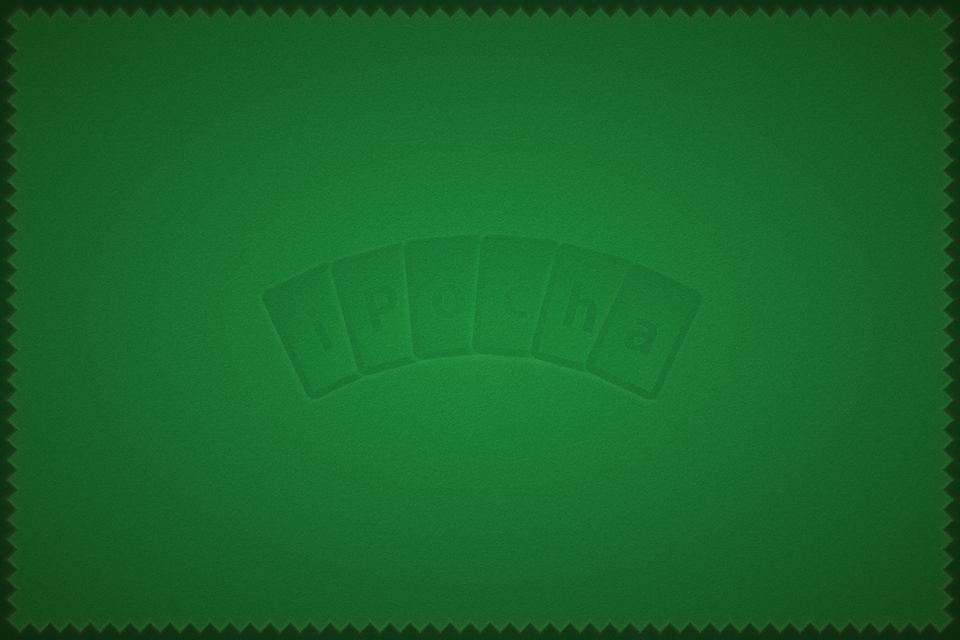
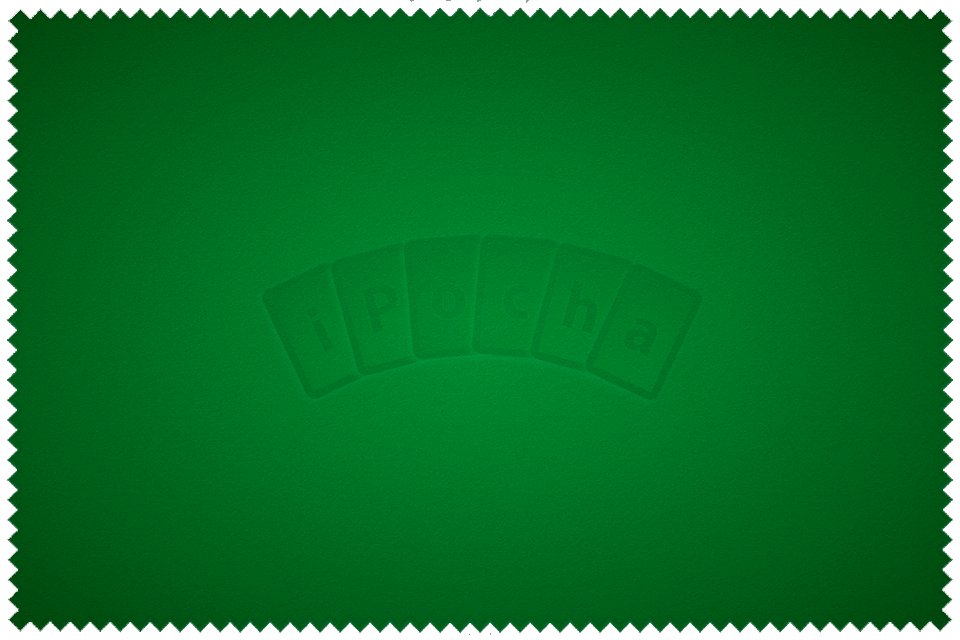
Use local image assets and strengthen hard-mode AI
- Point card and table background images to local img/ folder instead of
  remote javigarcia.com URLs, so the game works offline and picks up the
  updated table background.
- Prevent double-play when the human clicks two cards rapidly by locking
  pointer events on the hand until the next human turn.
- AI fixes for more coherent play in hard mode:
  * Exclude cards played in previous tricks from the simulation pool.
  * Make simulation heuristics trump-aware when leading and following.
  * Deterministic lead shortcut: need-all-remaining → strongest card,
    already-at-target → weakest card.
  * Strength-based tiebreaker in simulation scoring, removing bias from
    the AI hand's random order.
  * AI simulates its own future turns with a bid-aware policy instead of
    playing like a noisy opponent.

diff --git a/script.js b/script.js
@@ -2,7 +2,7 @@
  * LA PODRIDA — JUEGO DE CARTAS (RESPONSIVE + DIFICULTAD)
  ***********************/
 
-const IMG_BASE = 'https://javigarcia.com/lapodrida/img/';
+const IMG_BASE = 'img/';
 
 /***********************
  * CONFIGURACION DE DIFICULTAD
@@ -44,6 +44,7 @@ let currentPhase = "bidding";
 let currentTrick = [];
 let currentPlayer = null;
 let scoreData = [];
+let playedCardsThisRound = [];
 
 /***********************
  * FUNCIONES UTILITARIAS
@@ -117,15 +118,20 @@ function getLegalCardsForSimulation(hand, trick, ts) {
   return hand.slice();
 }
 
+// Trump-aware strength: trumps dominate any non-trump card
+function cardStrength(card, ts) {
+  return (card.suit === ts ? 100 : 0) + getRankValue(card.rank);
+}
+
 // Heuristic card selection for smarter simulation opponents (hard mode)
 function heuristicSimSelect(hand, trick, ts) {
   const legal = getLegalCardsForSimulation(hand, trick, ts);
   if (legal.length <= 1) return legal[0];
 
   if (trick.length === 0) {
-    // Leading: 60% play highest, 40% random
-    if (Math.random() < 0.6) {
-      return legal.reduce((a, b) => getRankValue(a.rank) >= getRankValue(b.rank) ? a : b);
+    // Leading: prefer strongest card (trump-aware). Small noise to avoid determinism.
+    if (Math.random() < 0.85) {
+      return legal.reduce((a, b) => cardStrength(a, ts) >= cardStrength(b, ts) ? a : b);
     }
     return legal[Math.floor(Math.random() * legal.length)];
   }
@@ -151,14 +157,14 @@ function heuristicSimSelect(hand, trick, ts) {
     return false;
   });
 
-  if (winners.length > 0 && Math.random() < 0.7) {
+  if (winners.length > 0 && Math.random() < 0.85) {
     // Play cheapest winner (economize strong cards)
-    return winners.reduce((a, b) => getRankValue(a.rank) <= getRankValue(b.rank) ? a : b);
+    return winners.reduce((a, b) => cardStrength(a, ts) <= cardStrength(b, ts) ? a : b);
   }
 
-  // Can't win or choosing not to: dump lowest card (70%) or random
-  if (Math.random() < 0.7) {
-    return legal.reduce((a, b) => getRankValue(a.rank) <= getRankValue(b.rank) ? a : b);
+  // Can't win or choosing not to: dump weakest card
+  if (Math.random() < 0.85) {
+    return legal.reduce((a, b) => cardStrength(a, ts) <= cardStrength(b, ts) ? a : b);
   }
   return legal[Math.floor(Math.random() * legal.length)];
 }
@@ -244,6 +250,56 @@ function aiComputeBid(pid) {
   return simulateBid(players.find(p => p.id === pid));
 }
 
+// Bid-aware deterministic play for the AI's own future turns inside a simulation.
+// tricksNeeded = aiPlayer.bid - (tricks already won in real game + tricks won in this simulation)
+function aiOwnSimSelect(hand, trick, ts, tricksNeeded, tricksRemaining) {
+  const legal = getLegalCardsForSimulation(hand, trick, ts);
+  if (legal.length <= 1) return legal[0];
+
+  if (trick.length === 0) {
+    // Leading: need all remaining -> strongest; don't want more -> weakest; mid -> mid (cheap winner)
+    if (tricksNeeded >= tricksRemaining) {
+      return legal.reduce((a, b) => cardStrength(a, ts) >= cardStrength(b, ts) ? a : b);
+    }
+    if (tricksNeeded <= 0) {
+      return legal.reduce((a, b) => cardStrength(a, ts) <= cardStrength(b, ts) ? a : b);
+    }
+    // Neutral lead: strong card to try to take a trick
+    return legal.reduce((a, b) => cardStrength(a, ts) >= cardStrength(b, ts) ? a : b);
+  }
+
+  // Following: compute current winner and partition legal cards
+  const ledSuit = trick[0].card.suit;
+  let bestCard = trick[0].card;
+  trick.forEach(play => {
+    if (play.card.suit === ts) {
+      if (bestCard.suit !== ts || getRankValue(play.card.rank) > getRankValue(bestCard.rank))
+        bestCard = play.card;
+    } else if (bestCard.suit !== ts && play.card.suit === ledSuit) {
+      if (getRankValue(play.card.rank) > getRankValue(bestCard.rank))
+        bestCard = play.card;
+    }
+  });
+  const winners = legal.filter(c => {
+    if (c.suit === ts && bestCard.suit !== ts) return true;
+    if (c.suit === ts && bestCard.suit === ts) return getRankValue(c.rank) > getRankValue(bestCard.rank);
+    if (c.suit === ledSuit && bestCard.suit !== ts) return getRankValue(c.rank) > getRankValue(bestCard.rank);
+    return false;
+  });
+  const losers = legal.filter(c => !winners.includes(c));
+
+  if (tricksNeeded > 0 && winners.length > 0) {
+    // Want this trick: use cheapest winner
+    return winners.reduce((a, b) => cardStrength(a, ts) <= cardStrength(b, ts) ? a : b);
+  }
+  if (tricksNeeded <= 0 && losers.length > 0) {
+    // Don't want this trick: dump highest loser (preserve small cards for later loses)
+    return losers.reduce((a, b) => cardStrength(a, ts) >= cardStrength(b, ts) ? a : b);
+  }
+  // Forced: either can't avoid winning or can't win; play weakest legal card
+  return legal.reduce((a, b) => cardStrength(a, ts) <= cardStrength(b, ts) ? a : b);
+}
+
 function simulateRemainingRoundForCard(aiPlayer, candidateIndex) {
   let simTrick = currentTrick.slice();
   const aiHandSim = aiPlayer.hand.slice();
@@ -261,6 +317,9 @@ function simulateRemainingRoundForCard(aiPlayer, candidateIndex) {
   currentTrick.forEach(played => {
     fullDeck = fullDeck.filter(c => !(c.suit === played.card.suit && c.rank === played.card.rank));
   });
+  playedCardsThisRound.forEach(played => {
+    fullDeck = fullDeck.filter(c => !(c.suit === played.suit && c.rank === played.rank));
+  });
 
   const simOppHands = {};
   players.forEach(p => {
@@ -276,12 +335,16 @@ function simulateRemainingRoundForCard(aiPlayer, candidateIndex) {
   });
 
   // Complete current trick for remaining players
+  let simTricksWon = 0;
   const played = simTrick.map(item => item.playerId);
   players.filter(p => !played.includes(p.id)).forEach(p => {
     const simHand = p.id === aiPlayer.id ? aiHandSim : (simOppHands[p.id] || []);
     if (simHand.length === 0) return;
     let chosen;
-    if (diffCfg.smartSim) {
+    if (p.id === aiPlayer.id) {
+      const needed = aiPlayer.bid - aiPlayer.tricks - simTricksWon;
+      chosen = aiOwnSimSelect(simHand, simTrick, trump.suit, needed, simHand.length + 1);
+    } else if (diffCfg.smartSim) {
       chosen = heuristicSimSelect(simHand, simTrick, trump.suit);
     } else {
       let legal = getLegalCardsForSimulation(simHand, simTrick, trump.suit);
@@ -298,6 +361,7 @@ function simulateRemainingRoundForCard(aiPlayer, candidateIndex) {
   if (simTrick.length === 0) return 0;
   let winner = determineTrickWinnerSim(simTrick, trump.suit);
   let tricksWon = (winner === aiPlayer.id) ? 1 : 0;
+  simTricksWon = tricksWon;
 
   let turnOrder = [];
   const si = players.findIndex(p => p.id === winner);
@@ -316,7 +380,10 @@ function simulateRemainingRoundForCard(aiPlayer, candidateIndex) {
       const simHand = pid === aiPlayer.id ? aiHandSim : (simOppHands[pid] || []);
       if (simHand.length === 0) continue;
       let chosen;
-      if (diffCfg.smartSim) {
+      if (pid === aiPlayer.id) {
+        const needed = aiPlayer.bid - aiPlayer.tricks - tricksWon;
+        chosen = aiOwnSimSelect(simHand, trick, trump.suit, needed, simHand.length);
+      } else if (diffCfg.smartSim) {
         chosen = heuristicSimSelect(simHand, trick, trump.suit);
       } else {
         let legal = getLegalCardsForSimulation(simHand, trick, trump.suit);
@@ -353,6 +420,25 @@ function aiSelectCard(player) {
   // Difficulty: random play chance
   if (diffCfg.randomPlay > 0 && Math.random() < diffCfg.randomPlay) {
     return legalIndices[Math.floor(Math.random() * legalIndices.length)];
+  }
+
+  // Hard mode: deterministic shortcut when leading a trick and the situation is extreme
+  if (diffCfg.smartSim && currentTrick.length === 0) {
+    const tricksNeeded = player.bid - player.tricks;
+    const tricksRemaining = player.hand.length;
+    const legalCards = legalIndices.map(i => ({ idx: i, card: player.hand[i] }));
+    if (tricksNeeded >= tricksRemaining) {
+      // Must win every remaining trick: lead the strongest card to pull out rivals' top cards
+      return legalCards.reduce((a, b) =>
+        cardStrength(a.card, trump.suit) >= cardStrength(b.card, trump.suit) ? a : b
+      ).idx;
+    }
+    if (tricksNeeded <= 0) {
+      // Already at or above target: lead the weakest card to minimize chance of winning
+      return legalCards.reduce((a, b) =>
+        cardStrength(a.card, trump.suit) <= cardStrength(b.card, trump.suit) ? a : b
+      ).idx;
+    }
   }
 
   // Hard mode: deterministic play when last in trick (full information)
@@ -417,6 +503,15 @@ function aiSelectCard(player) {
     updateSimLog(player.name + ", R" + (currentRoundIndex + 1) + ", " + cardText + ", " + parts.join(", "));
   });
 
+  // Tiebreaker strength preference: if AI still needs tricks -> prefer stronger card,
+  // otherwise (already at/over target) -> prefer weaker card. Epsilon keeps ties decidable.
+  const tricksStillNeeded = target - player.tricks;
+  const preferStrong = tricksStillNeeded > 0;
+  const strengthScore = ci => {
+    const s = cardStrength(player.hand[ci], trump.suit);
+    return preferStrong ? s : -s;
+  };
+
   // Hard mode: weighted proximity scoring (considers all outcomes, weighted by distance to target)
   if (diffCfg.smartSim) {
     let bestCandidate = null, bestScore = -Infinity;
@@ -429,23 +524,29 @@ function aiSelectCard(player) {
         const weight = dist === 0 ? 1.0 : dist === 1 ? 0.4 : dist === 2 ? 0.15 : 0.05;
         score += (r.freq[i] / total) * weight;
       }
+      // Tiebreaker: nudge by strength preference (small enough not to override meaningful diffs)
+      score += strengthScore(r.candidate) * 1e-4;
       if (score > bestScore) { bestScore = score; bestCandidate = r.candidate; }
     });
     if (bestCandidate !== null) return bestCandidate;
   }
 
-  // Normal mode: most simulations hitting target exactly
-  let best = null, maxExact = -1;
-  candidateResults.forEach(r => { if (r.freq[target] > maxExact) { maxExact = r.freq[target]; best = r.candidate; } });
-  if (maxExact > 0) return best;
+  // Normal mode: most simulations hitting target exactly (with strength tiebreaker)
+  let best = null, bestKey = -Infinity;
+  candidateResults.forEach(r => {
+    const key = r.freq[target] + strengthScore(r.candidate) * 1e-4;
+    if (key > bestKey) { bestKey = key; best = r.candidate; }
+  });
+  if (best !== null && candidateResults.some(r => r.freq[target] > 0)) return best;
 
   // Fallback: closest to target
-  let bestClose = null, maxClose = -1;
+  let bestClose = null, bestCloseKey = -Infinity;
   candidateResults.forEach(r => {
     const close = Math.max(r.freq[target + 1] || 0, r.freq[target - 1] || 0);
-    if (close > maxClose) { maxClose = close; bestClose = r.candidate; }
+    const key = close + strengthScore(r.candidate) * 1e-4;
+    if (key > bestCloseKey) { bestCloseKey = key; bestClose = r.candidate; }
   });
-  if (maxClose > 0) return bestClose;
+  if (bestClose !== null) return bestClose;
 
   return legalIndices[Math.floor(Math.random() * legalIndices.length)];
 }
@@ -647,6 +748,7 @@ function playTurn() {
     }, 800);
   } else {
     showMessage("Tu turno — toca una carta resaltada.");
+    document.getElementById("player-hand").style.pointerEvents = "";
     updateHandsDisplay();
   }
 }
@@ -703,6 +805,7 @@ function animateTrickCards(winner) {
     el.style.opacity = "0";
   });
   setTimeout(() => {
+    currentTrick.forEach(item => playedCardsThisRound.push(item.card));
     clearTrickArea();
     currentTrick = [];
     currentPlayer = winner;
@@ -860,6 +963,8 @@ function onHumanCardClick(event) {
     showMessage("¡Debes seguir el palo o tirar triunfo!");
     return;
   }
+  // Lock the hand immediately so rapid clicks on other cards are ignored
+  document.getElementById("player-hand").style.pointerEvents = "none";
   playCard(2, index, clickedEl);
 }
 
@@ -884,6 +989,7 @@ function startRound() {
   }
   currentPhase = "bidding";
   currentTrick = [];
+  playedCardsThisRound = [];
   biddingIndex = 0;
   handSize = rounds[currentRoundIndex];
   players.forEach(p => { p.hand = []; p.bid = null; p.tricks = 0; });

diff --git a/index.html b/index.html
@@ -55,7 +55,7 @@
     <div id="info-west" class="player-info"></div>
 
     <!-- Table background (desktop only) -->
-    <img id="table-bg" src="https://javigarcia.com/lapodrida/img/fondoiPocha-hd.png" alt="" draggable="false">
+    <img id="table-bg" src="img/fondoiPocha-hd.png" alt="" draggable="false">
 
     <!-- Trick area (center table) -->
     <div id="trick-area"></div>
